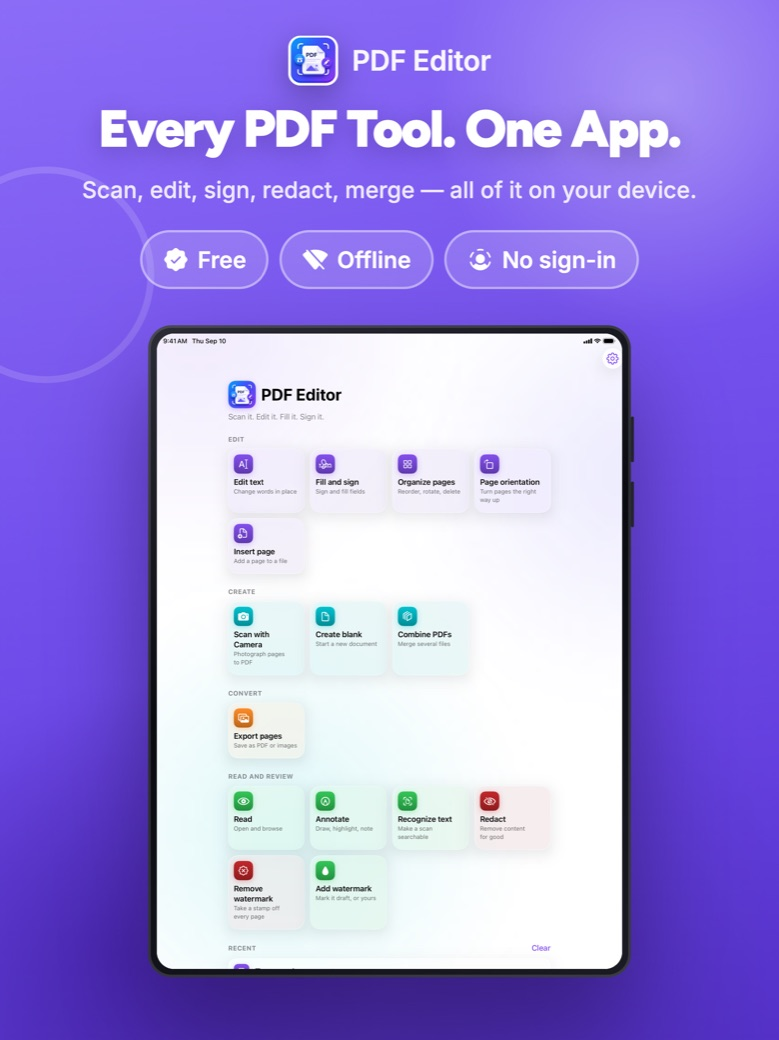
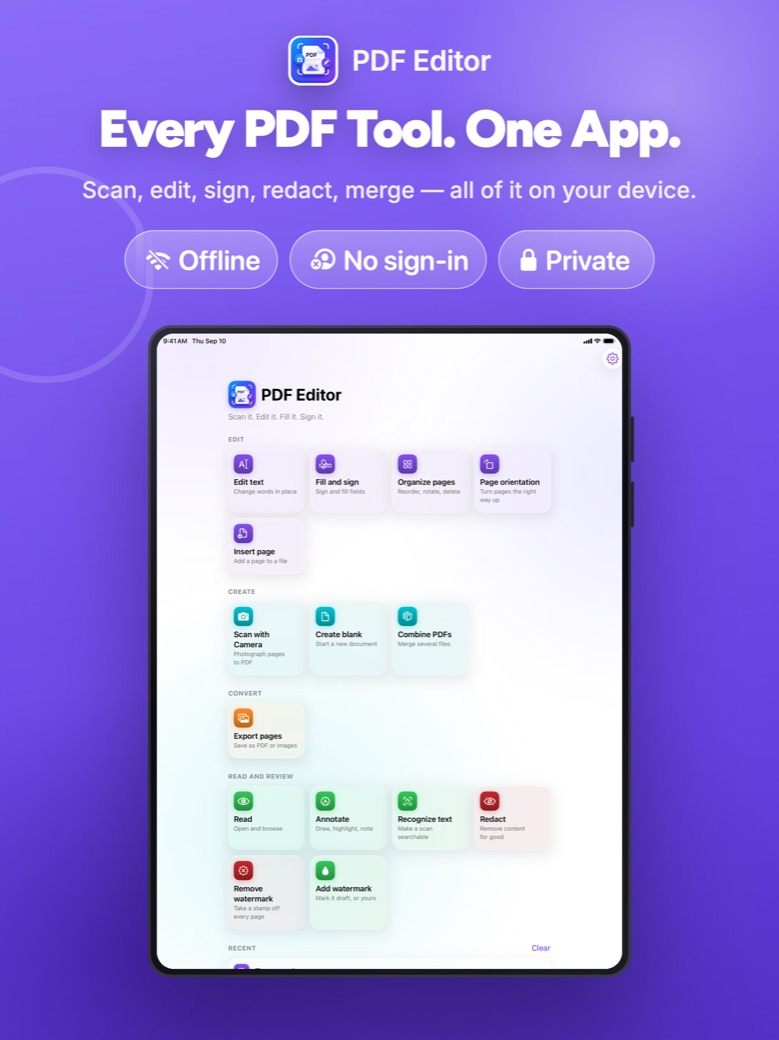
Gallery and features: no price wording, no watermark removal
App Review rejected the listing twice. Guideline 2.3.7 for a "Free" pill in the
first screenshot — Apple counts the absence of a charge as a price reference, so
"No ads" and "No watermark" went too. Guideline 5 for the watermark removal
feature, which has been taken out of the app: content must be legal in every
country the app ships to, and removing rights-management information is not.

The four changed frames are re-exported, and the feature card no longer offers to
take a watermark off a page — the app only adds one now. App Review follows the
marketing URL, so a page still advertising the feature they rejected is its own
problem.

Changed region(s): [[0.154, 0.2154, 0.8626, 0.2769]]

diff --git a/index.html b/index.html
@@ -272,8 +272,8 @@
       </div>
       <div class="feature-card">
         <div class="ico">💧</div>
-        <h3>Watermarks, both ways</h3>
-        <p>Add your own mark — text or an image, placed anywhere — or tap a watermark on the page and take every copy of it off.</p>
+        <h3>Add your own watermark</h3>
+        <p>Mark a document draft, confidential, or yours — text or an image, tiled, centred or dragged anywhere on the page. Added as a stamp, so it undoes in one step.</p>
       </div>
       <div class="feature-card">
         <div class="ico">🔄</div>
